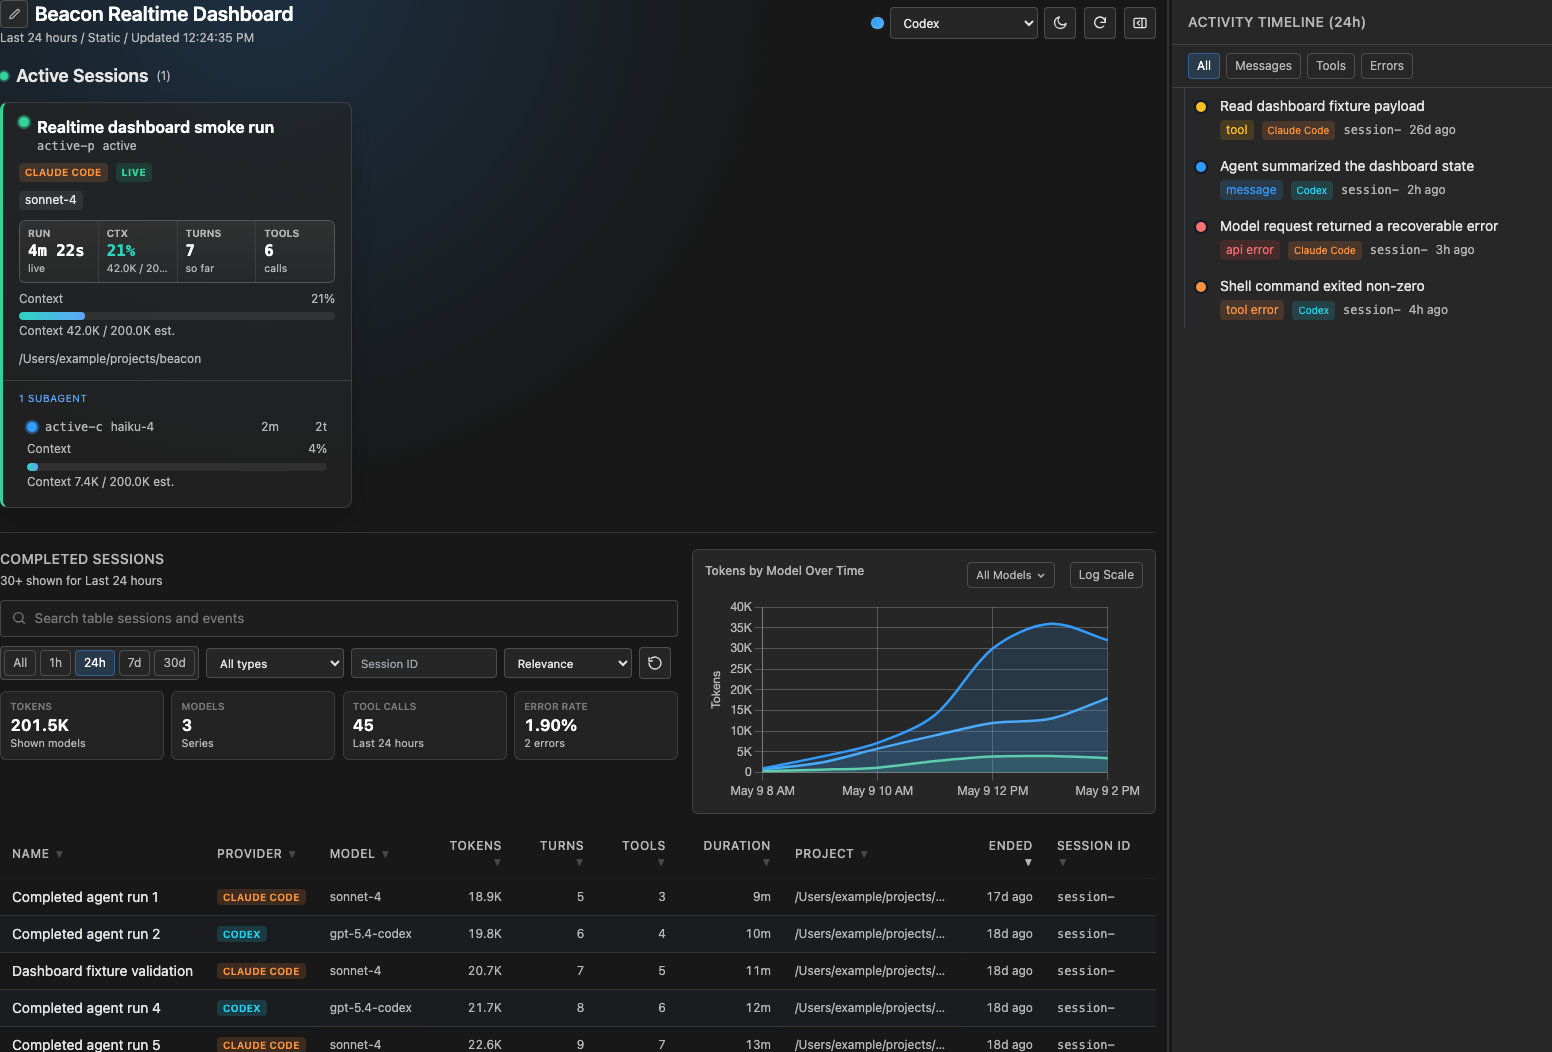
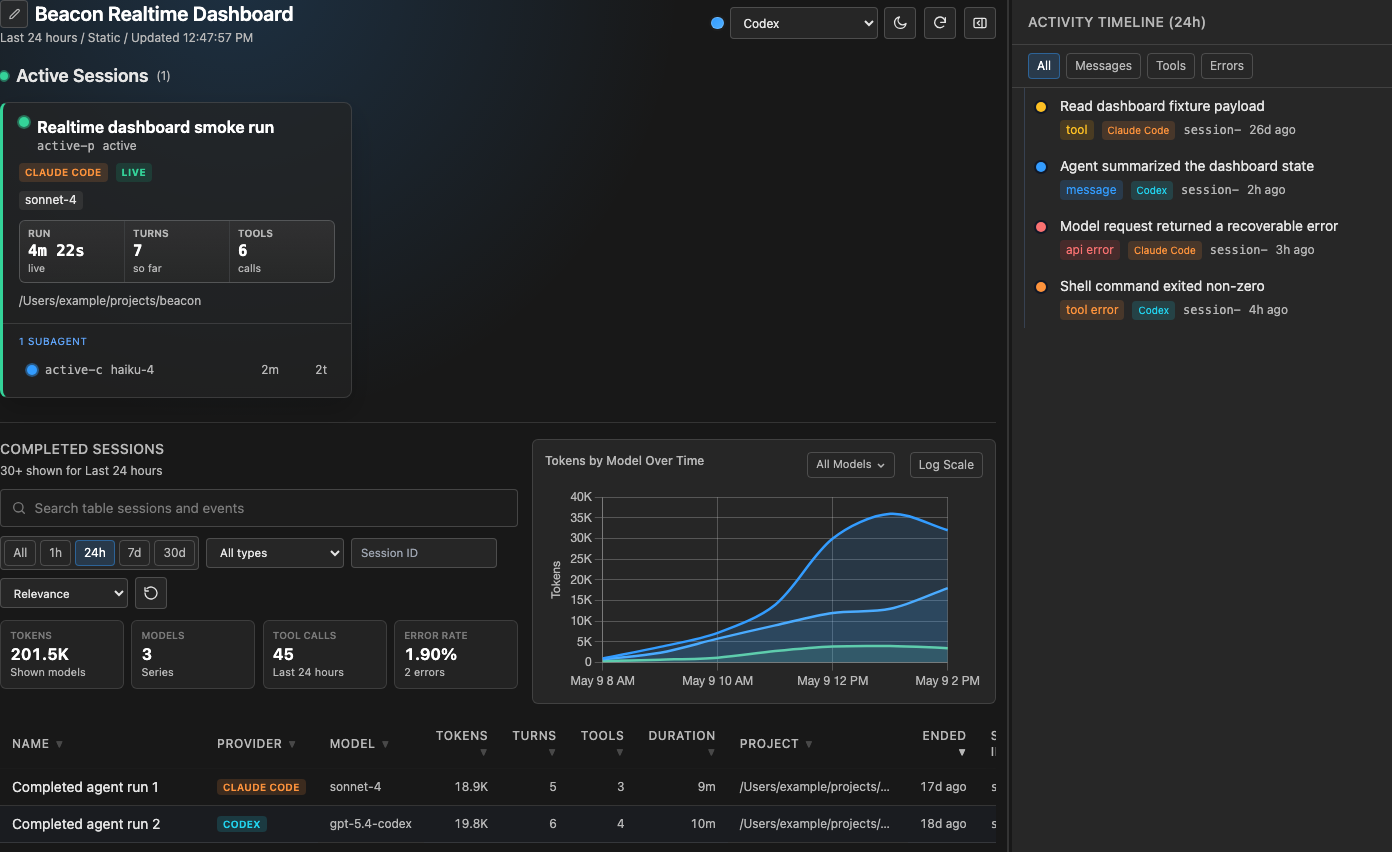
Refresh dashboard docs and snapshots

diff --git a/docs/dashboard-battle-test-findings.md b/docs/dashboard-battle-test-findings.md
@@ -18,7 +18,8 @@ fixtures plus CI.
 - Search table: table-scoped query copy, filters, reset, no custom clear
   button, show-more pagination, unavailable/error states, narrow-screen
   containment, and no row/header overlap.
-- Active sessions: default, no-active, many-active, high/over/unknown context states, accessible progress bars, active section prominence, and context-bar visual baseline.
+- Active sessions: default, no-active, many-active, compact live stat trackers,
+  active section prominence, and active-card visual baselines.
 - Analytics: single tokens-by-model time chart, range reloads, model dropdown, log toggle, tooltip anchoring, theme retinting, and nonblank chart geometry.
 - Timeline: activity filters, collapse/expand, persisted collapse before paint, resize drag, keyboard resize, inert/aria states, and transcript event deep links.
 - Dashboard identity: editable dashboard name, tab title persistence, configured fallback, local clear behavior, and unsafe text escaping.
@@ -59,7 +60,8 @@ git diff --check
 ## Final Result
 
 - The dashboard search area stays anchored during typing, clearing, delayed searches, stale responses, filters, range changes, sorting, pagination, and live updates.
-- Active sessions are the first dashboard content when present, with prominent stats and accessible context progress indicators.
+- Active sessions are the first dashboard content when present, with prominent
+  compact live stats.
 - The completed-table surface now owns the scoped search/filter controls,
   compact totals, and the single tokens-by-model time chart with stable
   controls and visual baselines.

diff --git a/README.md b/README.md
@@ -6,7 +6,7 @@ Beacon is a local dashboard for long-running AI coding agents. It watches the se
 
 ## What It Looks Like
 
-**Dashboard overview.** Active sessions with live context trackers, completed runs, compact table-scoped search filters, token volume by model, and a live activity timeline in one view.
+**Dashboard overview.** Active sessions with compact live stat trackers, completed runs, table-scoped search filters, token volume by model, and a live activity timeline in one view.
 
 <p>
   <img src="assets/beacon-screenshot.png" alt="Beacon dashboard showing active sessions, completed-session table controls, token volume by model, and activity timeline" />
@@ -20,7 +20,7 @@ Beacon is a local dashboard for long-running AI coding agents. It watches the se
 
 ## Why Use Beacon
 
-- See active and completed agent runs in one place, including project paths, models, duration, turns, tool calls, subagents, and harness-reported active-session context usage when available.
+- See active and completed agent runs in one place, including project paths, models, duration, turns, tool calls, subagents, and errors.
 - Catch expensive or noisy work quickly with token-over-time charts, cache-token counts, active-session status, and error activity.
 - Name each dashboard window so multiple Beacon dashboards, such as different machines, are easy to distinguish in browser tabs.
 - Search prompts, responses, tool calls, paths, and errors across captured sessions without rebuilding an external search service.
